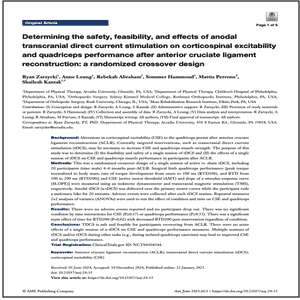
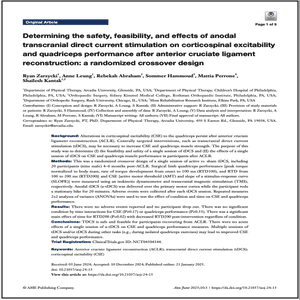
fix image - EMG publication

diff --git a/index.html b/index.html
@@ -343,7 +343,7 @@
                                       </h3>
 
                                 <p>
-                                    <b>Mattia Perrone</b>, Steven Mell, John Martin, <br> Shane Nho, Philip Malloy
+                                    <u><b>Mattia Perrone</b></u>, Steven Mell, John Martin, <br> Shane Nho, Philip Malloy
                                 <p>
                                 <br>
 
@@ -419,8 +419,8 @@
                                       </h3>
 
                                 <p>
-                                    Ryan Zarzycki, Anne Leung, Rebekah Abraham, Sommer Hammoud,
-                                    <b>Mattia Perrone</b>, Shailesh Kantak
+                                    Ryan Zarzycki, Anne Leung, Rebekah Abraham, Sommer Hammoud, <br>
+                                    <u>Mattia Perrone</u>, Shailesh Kantak
                                 <p>
                                 <br>
 
